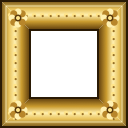
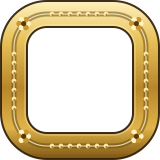
fix: topo limpo, cantos arredondados e FX inteiro no skin
- Topo sem faixa/contorno: os botões do skin em destaque, área dos
  botões da janela livre, e um leve escurecimento degradê para a leitura
  do título e dos botões sobre a arte.
- Moldura dourada redesenhada com cantos arredondados (acompanha o raio
  das janelas do macOS); painéis com cantos de 12 pt.
- Painéis de altura fixa ganham espaço para a moldura; a linha de
  controles do FX ficou compacta (ela alargava o painel e o corte comia
  os cantos).

diff --git a/Sources/Wineup/Layout/MainView.swift b/Sources/Wineup/Layout/MainView.swift
@@ -29,6 +29,12 @@ struct MainView: View {
                 if let art = theme.art, art.manifest.window.background != nil || !art.manifest.window.layers.isEmpty {
                     SkinFillView(art: art, fill: art.manifest.window.background, layers: art.manifest.window.layers,
                                  energy: SkinEnergy.value)
+                    // Leve escurecimento no topo (sem contorno): título e botões legíveis sobre a arte.
+                    VStack(spacing: 0) {
+                        LinearGradient(colors: [.black.opacity(0.55), .black.opacity(0)], startPoint: .top, endPoint: .bottom)
+                            .frame(height: 64)
+                        Spacer(minLength: 0)
+                    }
                 }
             }
             .ignoresSafeArea()
@@ -61,8 +67,18 @@ struct MainView: View {
     /// Barra no nível dos botões da janela: Metadados à esquerda, layout no extremo direito.
     /// Com skin, a barra ganha fundo/moldura do skin e todos os controles usam a arte do skin.
     private func header(theme: Theme, compact: Bool) -> some View {
+        HStack(spacing: 0) {
+            // Área dos botões fechar/minimizar/maximizar: fica limpa, sobre o fundo da janela (padrão da Apple).
+            Color.clear.frame(width: 76)
+            headerBar(theme: theme, compact: compact)
+        }
+        .frame(height: 38)
+        .background(DragArea())
+    }
+
+    /// A faixa decorada do topo: começa depois dos botões da janela.
+    private func headerBar(theme: Theme, compact: Bool) -> some View {
         HStack(spacing: 8) {
-            Color.clear.frame(width: 64)   // espaço dos botões fechar/minimizar/maximizar
             Image(nsImage: NSApp.applicationIconImage).resizable().frame(width: 18, height: 18)
             if !compact {
                 Text("Wineup Player")
@@ -123,11 +139,8 @@ struct MainView: View {
             }
         }
         .font(.system(size: 11))
-        .padding(.leading, 12)
         .padding(.trailing, 10)
-        .frame(height: 38)
-        .background(SkinHeaderBackground().padding(.horizontal, 4).padding(.vertical, 2))
-        .background(DragArea())
+        .frame(height: 34)
     }
 }
 

diff --git a/Sources/Wineup/Layout/LayoutViews.swift b/Sources/Wineup/Layout/LayoutViews.swift
@@ -110,11 +110,19 @@ struct ArrangedLayout: View {
         .animation(.spring(response: 0.3, dampingFraction: 0.85), value: columns)
     }
 
+    @Environment(\.theme) private var theme
+
+    /// Altura extra dos painéis fixos para caber a moldura do skin (sem cortar os cantos).
+    private func frameAllowance(_ kind: PanelKind) -> CGFloat {
+        guard let art = theme.art, let style = art.manifest.panelStyle(kind.rawValue), let frame = style.frame else { return 0 }
+        return CGFloat(frame.width) * 1.5
+    }
+
     private func slot(_ kind: PanelKind) -> some View {
         panel(kind)
             .environment(\.panelKind, kind.rawValue)
             .frame(minWidth: 0, maxWidth: .infinity)
-            .frame(height: kind.fixedHeight)
+            .frame(height: kind.fixedHeight.map { $0 + frameAllowance(kind) })
             .clipped()
             .overlay(alignment: .top) {
                 // Alça de arrasto: a barra de título do painel. A Playlist não tem barra de

diff --git a/Sources/Wineup/Panels/EqualizerPanel.swift b/Sources/Wineup/Panels/EqualizerPanel.swift
@@ -32,7 +32,7 @@ struct EqualizerPanel: View {
                         .frame(width: 8, height: 8)
                 }
             }
-            .frame(width: 84)
+            .frame(width: 74)
             ChromeButton(isOn: state.soundCorrection, spoken: "Correção de Som",
                          action: { state.soundCorrection.toggle() }) {
                 Image(systemName: "dial.medium")
@@ -47,11 +47,11 @@ struct EqualizerPanel: View {
                 .pickerStyle(.inline)
                 .labelsHidden()
             } label: {
-                Text(state.preset).lineLimit(1).frame(maxWidth: 90, alignment: .leading)
+                Text(state.preset).lineLimit(1).truncationMode(.tail).frame(maxWidth: 62, alignment: .leading)
             }
             .frame(maxWidth: .infinity)
             ChromeButton("Reset") { state.apply(preset: "Flat"); state.preamp = 0 }
-                .frame(width: 52)
+                .frame(width: 48)
             presetBar
         }
     }
